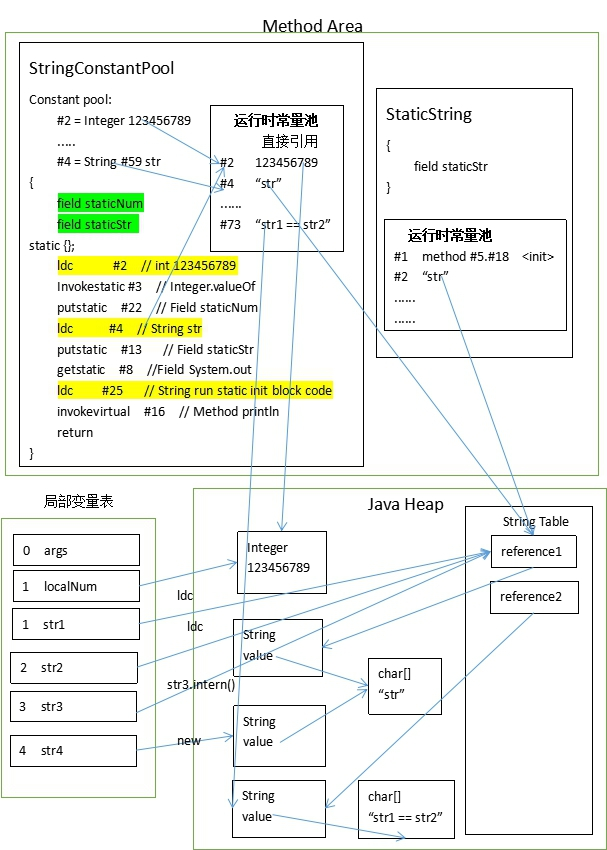
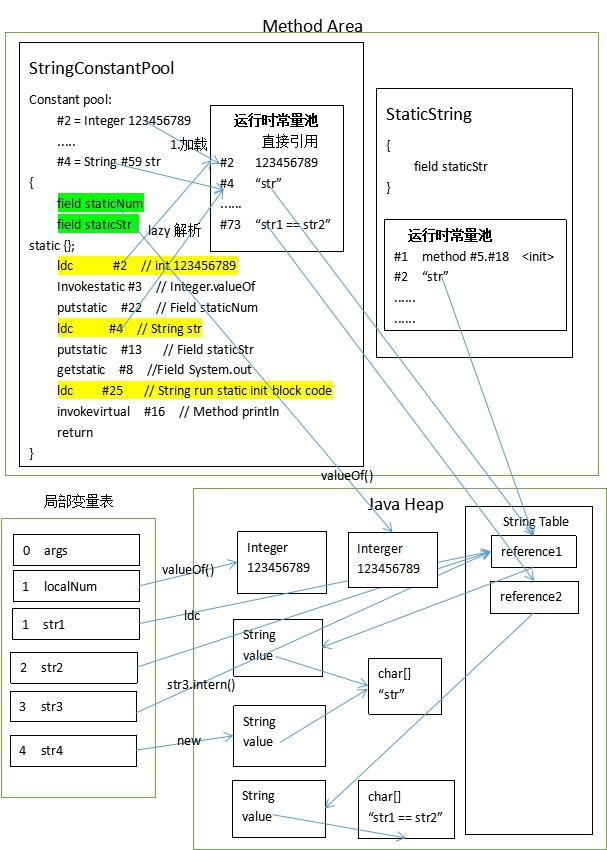
Site updated: 2019-09-26 20:32:31

diff --git a/2019/09/25/class文件常量池，运行时常量池，字符串常量池到底都是啥？/index.html b/2019/09/25/class文件常量池，运行时常量池，字符串常量池到底都是啥？/index.html
@@ -66,7 +66,7 @@
 <meta property="og:image" content="http://yangfubo.github.io/2019/09/25/class文件常量池，运行时常量池，字符串常量池到底都是啥？/class%E6%96%87%E4%BB%B6%E5%B8%B8%E9%87%8F%E6%B1%A01.png">
 <meta property="og:image" content="http://yangfubo.github.io/2019/09/25/class文件常量池，运行时常量池，字符串常量池到底都是啥？/class%E6%96%87%E4%BB%B6%E5%B8%B8%E9%87%8F%E6%B1%A02.png">
 <meta property="og:image" content="http://yangfubo.github.io/2019/09/25/class文件常量池，运行时常量池，字符串常量池到底都是啥？/3%E4%B8%AA%E5%B8%B8%E9%87%8F%E6%B1%A0%E7%9A%84%E5%85%B3%E7%B3%BB%E7%A4%BA%E6%84%8F%E5%9B%BE.jpg">
-<meta property="og:updated_time" content="2019-09-26T09:55:56.339Z">
+<meta property="og:updated_time" content="2019-09-26T11:54:24.639Z">
 <meta name="twitter:card" content="summary">
 <meta name="twitter:title" content="class文件常量池，运行时常量池，字符串常量池到底都是啥？">
 <meta name="twitter:description" content="傻傻分不清楚&amp;emsp;在看《深入理解Java虚拟机》的时候，在前面的内存结构章节中，方法区中有运行时常量池，在学class文件结构的时候，又发现有class文件常量池，然后呢，还有个全局的字符串常量池（String table）。在网上搜索他们的区别，也很少有能够讲的清楚的。当然，也并不是说我就讲的清楚了。我也只是把我自己的理解用文字记录下来。以便以后还是傻傻分不清。下面将会按照他们产生的顺序开">
@@ -312,7 +312,7 @@
                   <i class="fa fa-calendar-check-o"></i>
                 </span>
                 <span class="post-meta-item-text">更新于</span>
-                <time title="修改时间：2019-09-26 17:55:56" itemprop="dateModified" datetime="2019-09-26T17:55:56+08:00">2019-09-26</time>
+                <time title="修改时间：2019-09-26 19:54:24" itemprop="dateModified" datetime="2019-09-26T19:54:24+08:00">2019-09-26</time>
               </span>
             
           
@@ -347,8 +347,9 @@
 <p><img src="//yangfubo.github.io/2019/09/25/class文件常量池，运行时常量池，字符串常量池到底都是啥？/class%E6%96%87%E4%BB%B6%E5%B8%B8%E9%87%8F%E6%B1%A01.png" alt><br><img src="//yangfubo.github.io/2019/09/25/class文件常量池，运行时常量池，字符串常量池到底都是啥？/class%E6%96%87%E4%BB%B6%E5%B8%B8%E9%87%8F%E6%B1%A02.png" alt></p>
 <center>class文件常量池常量项结构.png</center>
 
-<p>&emsp;那么我们已经知道class文件常量池是存放字面量和符号引用的了。那么运行时常量池是什么呢？</p>
-<h3 id="运行时常量池（Runtime-Constant-Pool）"><a href="#运行时常量池（Runtime-Constant-Pool）" class="headerlink" title="运行时常量池（Runtime Constant Pool）"></a>运行时常量池（Runtime Constant Pool）</h3><p>&emsp;JVM在执行某个类的时候，会经过类的加载机制，将其加载，连接（验证、准备、解析），初始化。那么当类被加载到内存后，JVM就会将class文件常量池里的字面量和符号引用加载进运行时常量池，而且运行时常量池是一个类对应其自己的运行时常量池。在解析阶段可以将符号引用解析为直接引用（包括类或接口、字段、类方法、接口方法，invokeDynamic相关的符号引用），但存在Lazy的情况，虚拟机规范没有规定解析阶段发生的具体时间，只要求在执行<code>anewarray,multianewarray,checkcast,new,getfield,getstatic,putfield,putstatic,instanceof,invokedynamic,invokeinterface,invokespecial,invokestatic,invokevirtual,ldc.ldc_w</code>这16个用于操作符号引用的字节码指令之前，先对他们进行符号引用。从反解析出的字节码中可以看到，方法的调用比如invokevirtual后面会有符号引用在class文件常量池的索引。那么运行时就是拿这个符号引用的索引，去运行时常量池中获取解析后的直接引用。</p>
+
+
+<h3 id="运行时常量池（Runtime-Constant-Pool）"><a href="#运行时常量池（Runtime-Constant-Pool）" class="headerlink" title="运行时常量池（Runtime Constant Pool）"></a>运行时常量池（Runtime Constant Pool）</h3><p>&emsp;前面我们已经知道class文件常量池是存放字面量和符号引用的了。那么运行时常量池是什么呢？<br>&emsp;JVM在执行某个类的时候，会经过类的加载机制，将其加载，连接（验证、准备、解析），初始化。那么当类被加载到内存后，JVM就会将class文件常量池里的字面量和符号引用加载进运行时常量池，而且运行时常量池是一个类对应其自己的运行时常量池。在解析阶段可以将符号引用解析为直接引用（包括类或接口、字段、类方法、接口方法，invokeDynamic相关的符号引用），但存在Lazy的情况，虚拟机规范没有规定解析阶段发生的具体时间，只要求在执行<code>anewarray,multianewarray,checkcast,new,getfield,getstatic,putfield,putstatic,instanceof,invokedynamic,invokeinterface,invokespecial,invokestatic,invokevirtual,ldc.ldc_w</code>这16个用于操作符号引用的字节码指令之前，先对他们进行符号引用。从反解析出的字节码中可以看到，方法的调用比如invokevirtual后面会有符号引用在class文件常量池的索引。那么运行时就是拿这个符号引用的索引，去运行时常量池中获取解析后的直接引用。</p>
 <h3 id="字符串常量池（String-Table）"><a href="#字符串常量池（String-Table）" class="headerlink" title="字符串常量池（String Table）"></a>字符串常量池（String Table）</h3><p>&emsp;字符串常量池，在JDK1.7将其从永久代移动到了java堆。它是全局共享的，所以也叫全局字符串常量池。如下代码在JDK1.6和JDK1.7中的OOM区域不同。</p>
 <figure class="highlight java"><table><tr><td class="gutter"><pre><span class="line">1</span><br><span class="line">2</span><br><span class="line">3</span><br><span class="line">4</span><br><span class="line">5</span><br><span class="line">6</span><br><span class="line">7</span><br><span class="line">8</span><br><span class="line">9</span><br></pre></td><td class="code"><pre><span class="line"></span><br><span class="line"><span class="keyword">static</span> String str = <span class="string">"test"</span>;</span><br><span class="line"><span class="function"><span class="keyword">public</span> <span class="keyword">static</span> <span class="keyword">void</span> <span class="title">main</span><span class="params">(String[] args)</span></span>&#123;</span><br><span class="line">	List&lt;String&gt; list = <span class="keyword">new</span> LinkedList&lt;&gt;();</span><br><span class="line">	<span class="keyword">while</span>(<span class="keyword">true</span>)&#123;</span><br><span class="line">		str = str+str;</span><br><span class="line">		list.add(str.intern());</span><br><span class="line">	&#125;</span><br><span class="line">&#125;</span><br></pre></td></tr></table></figure>
 
@@ -356,12 +357,13 @@
 <li>JDK1.6中是OutOfMemoryError: PermGen space</li>
 <li>JDK1.7及以上是OutOfMemoryError: Java heap space</li>
 </ul>
-<p>&emsp;全局字符串常量池可以理解为一个HashSet<string>,<strong>里面存储的是String对象的引用</strong>,牢记是引用。真正的字符串其实是String类里的char[] value存储的字符数组。因为数组是引用类型，所以应该在java堆中存储着诸如”abc”=[‘a’,’b’,’c’]这样的数据。那么，是什么时候字符串字面量会加载进全局字符串常量池呢？下面我们就结合源代码、字节码、类加载、JVM内存结构，画个图来分析一波。源代码和字节码我完整地贴到笔记的最后面了。</string></p>
+<p>&emsp;全局字符串常量池可以理解为一个HashSet<string>,<strong>里面存储的是String对象的引用</strong>,牢记是引用。真正的字符串其实是String类里的char[] value存储的字符数组。因为数组是引用类型，所以应该在java堆中存储着诸如”abc”=[‘a’,’b’,’c’]这样的数据。那么，是什么时候字符串字面量会加载进全局字符串常量池呢？下面我们就结合源代码、字节码、类加载、JVM内存结构，画个图来分析一波。源代码和字节码由于太多，我就完整地贴到笔记的最后面了。</string></p>
 <p><img src="//yangfubo.github.io/2019/09/25/class文件常量池，运行时常量池，字符串常量池到底都是啥？/3%E4%B8%AA%E5%B8%B8%E9%87%8F%E6%B1%A0%E7%9A%84%E5%85%B3%E7%B3%BB%E7%A4%BA%E6%84%8F%E5%9B%BE.jpg" alt></p>
 <center>3个常量池的关系图</center>
 
-<p>&emsp;以上是我理解的3者的关系，首先经过类加载，在初始化阶段会调用类的初始化器<clinit>对应于字节码中的static{}代码块(它会将静态属性或静态代码块在源码中的先后顺序进行组合到一个方法内)。<br>&emsp;静态初始化方法内有ldc字节码指令（load constant?），这个指令的作用是：根据class文件常量池中的索引号（如下方的#2），去运行时常量池中寻找对应的常量，如果没有解析，则解析，将直接引用存入运行时常量池（以后就不用解析了），返回引用压入操作数栈到栈顶。如果是字符串，则会去全局字符串常量池中查找是否存在（类似equals）,存在则直接返回全局字符串常量池中的引用，不存在则在堆中创建一个String对象，把引用存入全局字符串常量池并返回其引用压入栈顶。<br>其实class常量池中的常量加载到运行时常量池中，对它的解析resolve是lazy的。只有遇到ldc指令的时候才会去判断是否解析，没解析则解析。因为类加载最后是初始化，类静态属性的初始化赋值就会执行ldc指令，所以类加载完staticNum就已经解析了。但是如果是main方法中“str1 == str2”这样的字面量，只有在第一次运行到ldc命令的时候去真正解析。</clinit></p>
-<figure class="highlight java"><table><tr><td class="gutter"><pre><span class="line">1</span><br><span class="line">2</span><br><span class="line">3</span><br><span class="line">4</span><br><span class="line">5</span><br><span class="line">6</span><br><span class="line">7</span><br><span class="line">8</span><br><span class="line">9</span><br><span class="line">10</span><br><span class="line">11</span><br><span class="line">12</span><br><span class="line">13</span><br><span class="line">14</span><br><span class="line">15</span><br><span class="line">16</span><br><span class="line">17</span><br><span class="line">18</span><br><span class="line">19</span><br><span class="line">20</span><br><span class="line">21</span><br><span class="line">22</span><br><span class="line">23</span><br><span class="line">24</span><br><span class="line">25</span><br></pre></td><td class="code"><pre><span class="line"></span><br><span class="line">... ...</span><br><span class="line"></span><br><span class="line">Constant pool:</span><br><span class="line">   #1 = Methodref          #27.#57       // java/lang/Object."&lt;init&gt;":()V 对象默认无参初始化构造器</span><br><span class="line">      #2 = Integer            123456789     // 整形字面量</span><br><span class="line">      #3 = Methodref          #58.#59       // java/lang/Integer.valueOf:(I)Ljava/lang/Integer;  方法引用</span><br><span class="line">      #4 = String             #60           // str  字符串字面量</span><br><span class="line">... ...</span><br><span class="line"></span><br><span class="line"><span class="keyword">static</span> &#123;&#125;; <span class="comment">//类初始化构造器&lt;clinit&gt;</span></span><br><span class="line">    descriptor: ()V</span><br><span class="line">    flags: ACC_STATIC</span><br><span class="line">    Code:</span><br><span class="line">      stack=<span class="number">2</span>, locals=<span class="number">0</span>, args_size=<span class="number">0</span></span><br><span class="line">         0: ldc           #2                  // int 123456789  从运行时常量池中获取直接引用并压入栈顶</span><br><span class="line">         2: invokestatic  #3                  // Method java/lang/Integer.valueOf:(I)Ljava/lang/Integer; </span><br><span class="line">         5: putstatic     #22                 // Field staticNum:Ljava/lang/Integer;</span><br><span class="line">         8: ldc           #4                  // String str  从运行时常量池中获取直接引用并压入栈顶，</span><br><span class="line">											  <span class="comment">// 获取过程中如果没解析过，会去全局字符串常量池中查找是否已驻留，无则在堆中新建String对象，其引用存入全局字符串常量池，并返回其引用</span></span><br><span class="line">        10: putstatic     #13                 // Field staticStr:Ljava/lang/String;  给staticStr静态属性赋值</span><br><span class="line">        13: getstatic     #8                  // Field java/lang/System.out:Ljava/io/PrintStream;</span><br><span class="line">        16: ldc           #25                 // String run static init block code\n</span><br><span class="line">        18: invokevirtual #16                 // Method java/io/PrintStream.println:(Ljava/lang/String;)V</span><br><span class="line">        <span class="number">21</span>: <span class="keyword">return</span></span><br></pre></td></tr></table></figure>
+<p>&emsp;以上是我理解的3者的关系，首先经过类加载，在初始化阶段会调用类的初始化器<clinit>对应于字节码中的static{}代码块(它会将静态属性或静态代码块在源码中的先后顺序进行组合到一个方法内)。<br>&emsp;静态初始化方法内有ldc字节码指令（load constant?），这个指令的作用是：根据class文件常量池中的索引号（如下方的#2），去运行时常量池中寻找对应的常量，如果没有解析，则解析，将直接引用存入运行时常量池（以后就不用解析了），如果是整形则是把int值压入操作数栈供后面的Interge.valueOf(int)调用。如果是字符串，则会去全局字符串常量池中查找是否存在（类似equals）,存在则直接返回全局字符串常量池中的引用，不存在则在堆中创建一个String对象，把引用存入全局字符串常量池并返回其引用压入栈顶。</clinit></p>
+<p>&emsp;class常量池中的常量加载到运行时常量池中，对它的解析resolve是lazy的。只有遇到ldc指令的时候才会去判断是否解析，没解析则解析。示例代码因为类加载最后是初始化，类静态属性的初始化赋值就会执行ldc指令，所以类加载完staticStr就已经解析了。但是如果是main方法中“str1 == str2”这样的字面量，只有在第一次运行到ldc命令的时候去真正解析。</p>
+<figure class="highlight java"><table><tr><td class="gutter"><pre><span class="line">1</span><br><span class="line">2</span><br><span class="line">3</span><br><span class="line">4</span><br><span class="line">5</span><br><span class="line">6</span><br><span class="line">7</span><br><span class="line">8</span><br><span class="line">9</span><br><span class="line">10</span><br><span class="line">11</span><br><span class="line">12</span><br><span class="line">13</span><br><span class="line">14</span><br><span class="line">15</span><br><span class="line">16</span><br><span class="line">17</span><br><span class="line">18</span><br><span class="line">19</span><br><span class="line">20</span><br><span class="line">21</span><br><span class="line">22</span><br><span class="line">23</span><br><span class="line">24</span><br></pre></td><td class="code"><pre><span class="line"></span><br><span class="line">... ...</span><br><span class="line"></span><br><span class="line">Constant pool:</span><br><span class="line">   #1 = Methodref          #27.#57       // java/lang/Object."&lt;init&gt;":()V 对象默认无参初始化构造器</span><br><span class="line">      #2 = Integer            123456789     // 整形字面量</span><br><span class="line">      #3 = Methodref          #58.#59       // java/lang/Integer.valueOf:(I)Ljava/lang/Integer;  方法引用</span><br><span class="line">      #4 = String             #60           // str  字符串字面量</span><br><span class="line">... ...</span><br><span class="line"></span><br><span class="line"><span class="keyword">static</span> &#123;&#125;; <span class="comment">//类初始化构造器&lt;clinit&gt;</span></span><br><span class="line">    descriptor: ()V</span><br><span class="line">    flags: ACC_STATIC</span><br><span class="line">    Code:</span><br><span class="line">      stack=<span class="number">2</span>, locals=<span class="number">0</span>, args_size=<span class="number">0</span></span><br><span class="line">         0: ldc           #2                  // int 123456789  从运行时常量池中获取int值并压入栈顶</span><br><span class="line">         2: invokestatic  #3                  // Method java/lang/Integer.valueOf:(I)Ljava/lang/Integer; </span><br><span class="line">         5: putstatic     #22                 // Field staticNum:Ljava/lang/Integer;</span><br><span class="line">         8: ldc           #4                  // String str  从运行时常量池中获取直接引用并压入栈顶,获取过程中如果没解析过，会去全局字符串常量池中查找是否已驻留，无则在堆中新建String对象，其引用存入全局字符串常量池，并返回其引用</span><br><span class="line">        10: putstatic     #13                 // Field staticStr:Ljava/lang/String;  给staticStr静态属性赋值</span><br><span class="line">        13: getstatic     #8                  // Field java/lang/System.out:Ljava/io/PrintStream;</span><br><span class="line">        16: ldc           #25                 // String run static init block code\n</span><br><span class="line">        18: invokevirtual #16                 // Method java/io/PrintStream.println:(Ljava/lang/String;)V</span><br><span class="line">        <span class="number">21</span>: <span class="keyword">return</span></span><br></pre></td></tr></table></figure>
 
 <p>&emsp;重新整理下”str”这个字面量从class文件到main方法运行时的过程，类加载的加载阶段“str”从class文件常量池加载进运行时常量池，并在类初始化阶段(最先打印”run static init block code”)执行生成的初始化方法中第一次执行ldc命令，ldc命令检查到该字面量未解析，去全局字符串常量池中查找，也无对应引用，所以在堆中创建String对象，将其引用存入全局字符串常量池，返回这个引用，ldc命令将之加载到操作数栈顶，后面的putstatic将这个引用赋值给类静态属性staticStr；<br>然后main方法里，另一个StaticString.str也是类初始化阶段执行ldc命令，运行时常量池中没解析，不过它在全局字符串常量池中发现有引用（StringConstantPool生成的），直接返回该引用，所以他们两个==为true;str1这个局部变量也使用ldc指令去本类运行时常量池中将字符串载入栈顶，发现已解析，返回直接引用压入栈顶；str2同理；str3调用构造器，查看源码发现，其实是将String对象的value属性赋值给新String对象；str4调用str3.intern(),该方法去全局字符串常量池中查找是否有等于str3（equals）的引用，发现有（前面类属性staticStr通过ldc产生的），返回全局字符串常量池中的引用。</p>
 <p>&emsp;讲到这里，你已经基本掌握了class文件常量池、运行时常量池、全局字符串常量池中字符串的关系。但是其实还有JIT及时编译器优化（逃逸分析，栈上分配，标量替换，方法内联等）。不想再陷入过多的细节了，有兴趣的详细参考R大的文章<a href="https://www.iteye.com/blog/rednaxelafx-774673" target="_blank" rel="noopener">https://www.iteye.com/blog/rednaxelafx-774673</a></p>

diff --git a/2019/09/25/MySQL基础架构之一条select语句是如何执行的/index.html b/2019/09/25/MySQL基础架构之一条select语句是如何执行的/index.html
@@ -55,18 +55,20 @@
   };
 </script>
 
-  <meta name="description" content="&amp;emsp;作为程序员，除了要精通一门高级编程语言外，还必须熟悉数据库（MySQL/Oracle等）。平常我们只要会写SQL,懂点索引能加速查询，知道执行一条select语句，会根据where条件筛选出我们想要的数据，也就是输入一条语句，得到输出结果。对MySQL的原理一知半解，那么在发生问题的时候，就可能不知道问题出在哪。要想往高级工程师进阶，就得去理解MySQL的内部原理，底层细节。但是我不想">
+  <meta name="description" content="&amp;emsp;作为程序员，除了要精通一门高级编程语言外，还必须熟悉数据库（MySQL/Oracle等）。平常我们只要会写SQL,懂点索引能加速查询,对于初级开发也就够了。但是如果只会输入一条语句，得到输出结果。对MySQL的原理一知半解，那么在发生问题的时候，就不知道问题出在哪。要想往高级工程师进阶，就得去理解MySQL的内部原理，底层细节。但是我不想这么早就扎入MySQL的源码中。对于我这个初入茅">
 <meta name="keywords" content="MySQL基础架构 select语句">
 <meta property="og:type" content="article">
 <meta property="og:title" content="MySQL基础架构之一条select语句是如何执行的">
 <meta property="og:url" content="http://yangfubo.github.io/2019/09/25/MySQL基础架构之一条select语句是如何执行的/index.html">
 <meta property="og:site_name" content="Bob&#39;s Blogs">
-<meta property="og:description" content="&amp;emsp;作为程序员，除了要精通一门高级编程语言外，还必须熟悉数据库（MySQL/Oracle等）。平常我们只要会写SQL,懂点索引能加速查询，知道执行一条select语句，会根据where条件筛选出我们想要的数据，也就是输入一条语句，得到输出结果。对MySQL的原理一知半解，那么在发生问题的时候，就可能不知道问题出在哪。要想往高级工程师进阶，就得去理解MySQL的内部原理，底层细节。但是我不想">
+<meta property="og:description" content="&amp;emsp;作为程序员，除了要精通一门高级编程语言外，还必须熟悉数据库（MySQL/Oracle等）。平常我们只要会写SQL,懂点索引能加速查询,对于初级开发也就够了。但是如果只会输入一条语句，得到输出结果。对MySQL的原理一知半解，那么在发生问题的时候，就不知道问题出在哪。要想往高级工程师进阶，就得去理解MySQL的内部原理，底层细节。但是我不想这么早就扎入MySQL的源码中。对于我这个初入茅">
 <meta property="og:locale" content="zh-CN">
-<meta property="og:updated_time" content="2019-09-26T06:04:17.077Z">
+<meta property="og:image" content="http://yangfubo.github.io/2019/09/25/MySQL基础架构之一条select语句是如何执行的/MySQL%E5%9F%BA%E7%A1%80%E6%9E%B6%E6%9E%84%E5%9B%BE.jpg">
+<meta property="og:updated_time" content="2019-09-26T12:31:09.862Z">
 <meta name="twitter:card" content="summary">
 <meta name="twitter:title" content="MySQL基础架构之一条select语句是如何执行的">
-<meta name="twitter:description" content="&amp;emsp;作为程序员，除了要精通一门高级编程语言外，还必须熟悉数据库（MySQL/Oracle等）。平常我们只要会写SQL,懂点索引能加速查询，知道执行一条select语句，会根据where条件筛选出我们想要的数据，也就是输入一条语句，得到输出结果。对MySQL的原理一知半解，那么在发生问题的时候，就可能不知道问题出在哪。要想往高级工程师进阶，就得去理解MySQL的内部原理，底层细节。但是我不想">
+<meta name="twitter:description" content="&amp;emsp;作为程序员，除了要精通一门高级编程语言外，还必须熟悉数据库（MySQL/Oracle等）。平常我们只要会写SQL,懂点索引能加速查询,对于初级开发也就够了。但是如果只会输入一条语句，得到输出结果。对MySQL的原理一知半解，那么在发生问题的时候，就不知道问题出在哪。要想往高级工程师进阶，就得去理解MySQL的内部原理，底层细节。但是我不想这么早就扎入MySQL的源码中。对于我这个初入茅">
+<meta name="twitter:image" content="http://yangfubo.github.io/2019/09/25/MySQL基础架构之一条select语句是如何执行的/MySQL%E5%9F%BA%E7%A1%80%E6%9E%B6%E6%9E%84%E5%9B%BE.jpg">
   <link rel="canonical" href="http://yangfubo.github.io/2019/09/25/MySQL基础架构之一条select语句是如何执行的/">
 
 
@@ -308,7 +310,7 @@
                   <i class="fa fa-calendar-check-o"></i>
                 </span>
                 <span class="post-meta-item-text">更新于</span>
-                <time title="修改时间：2019-09-26 14:04:17" itemprop="dateModified" datetime="2019-09-26T14:04:17+08:00">2019-09-26</time>
+                <time title="修改时间：2019-09-26 20:31:09" itemprop="dateModified" datetime="2019-09-26T20:31:09+08:00">2019-09-26</time>
               </span>
             
           
@@ -337,12 +339,29 @@
     <div class="post-body" itemprop="articleBody">
 
       
-        <p>&emsp;作为程序员，除了要精通一门高级编程语言外，还必须熟悉数据库（MySQL/Oracle等）。平常我们只要会写SQL,懂点索引能加速查询，知道执行一条select语句，会根据where条件筛选出我们想要的数据，也就是输入一条语句，得到输出结果。对MySQL的原理一知半解，那么在发生问题的时候<br>，就可能不知道问题出在哪。要想往高级工程师进阶，就得去理解MySQL的内部原理，底层细节。但是我不想这么早就扎入MySQL的源码中。对于我这个初入茅庐的菜鸟程序员，还是在以后的开发中，根据实际问题再去深入研究。这篇笔记主要记录我对MySQL的基础架构的理解，好吧，下面开始。</p><a id="more"></a>
-<p>@TODO 补上图片</p>
-<p>&emsp;直接贴上MySQL的组件图，那么我们就来讲讲这个图。首先，客户端就是我们程序员主要工作的地方，你写的Java代码就会调用MySQL提供的Java客户端API。一般客户端开发框架会封装一个连接池，管理复用MySQL的连接。而MySQL可大致分为Server层和存储引擎层两部分。<br>假设我们执行这样一条SQL,select * from t where id = 1;来分析分析它的执行过程，以及各个组件都有什么作用。<br>1.连接器，负责连接管理，每个客户端连接在服务端都会对应与一个线程，连接器同样也是线程池，客户端连接用完了，不会关闭线程，而是等待处理下一个连接；权限验证，将其权限信息读入内存，验证账户和密码的正确性，下面的组件还会用到这部分权限信息。<br>顺带一提缓存，根据SQL语句查询是否有缓存，有则直接返回数据。这样看似可以加速查询，但对于读写频繁的业务，你对表上任一行做了更新操作，都会使得缓存失效，假如一条读完下条写，缓存失效，下次又读，又进缓存，这样根本没有提高效率。所以根据业务需求，判断是否需要开启缓存吧，通常建议不使用。<br>2.分析器，进行词法分析，语法分析得到语法树，验证语法是否正确，比如根据语法树判断关键字是否正确。<br>3.预处理器，此部分根据语法树中解析出的表、列信息，结合前面的权限信息判断用户是否对该表或列具有读/写权限等；<br>4.优化器，这无疑是很重要的一部分，该部分主要负责优化SQL语句，包括重写查询、决定表的读取顺序，选择合适的索引（估计哪个索引执行快）等，据此生成最优的执行计划。对于上面那条SQL语句，会选择id主键索引。<br>5.执行器，根据执行计划给出的指令，调用存储引擎的API,进行计算等。那么这个例子就是调用查询id=1的存储引擎接口。<br>6.存储引擎，提供API,存储数据，比如查询某个索引第一行的接口，查询某个索引条目（数据行）下一个条目的接口。这个例子就是遍历id主键索引树，返回给执行器id=1这一行。<br>7.返回结果集，执行器查出数据后，数据由连接器中的当前线程传送回数据，并不是所有数据都查出来了一次性返回给客户端，而是查出数据就可以往连接里传送数据了。</p>
-<p>参考资料：</p>
-<p>1.《高性能MySQL 第三版》章节1.1、6.4</p>
-<p>2.极客时间《MySQL实战45讲》–丁奇大佬，第一章《基础架构：一条SQL查询语句是如何执行的？》</p>
+        <p>&emsp;作为程序员，除了要精通一门高级编程语言外，还必须熟悉数据库（MySQL/Oracle等）。平常我们只要会写SQL,懂点索引能加速查询,对于初级开发也就够了。但是如果只会输入一条语句，得到输出结果。对MySQL的原理一知半解，那么在发生问题的时候<br>，就不知道问题出在哪。要想往高级工程师进阶，就得去理解MySQL的内部原理，底层细节。但是我不想这么早就扎入MySQL的源码中。对于我这个初入茅庐的菜鸟程序员，还是在以后的开发中，根据实际问题再去深入研究。这篇笔记主要记录我对MySQL的基础架构的理解，好吧，下面开始。</p><a id="more"></a>
+<p><img src="//yangfubo.github.io/2019/09/25/MySQL基础架构之一条select语句是如何执行的/MySQL%E5%9F%BA%E7%A1%80%E6%9E%B6%E6%9E%84%E5%9B%BE.jpg" alt></p>
+<p>&emsp;直接贴上MySQL的组件图，那么我们就来讲讲这个图。</p>
+<h3 id="客户端"><a href="#客户端" class="headerlink" title="客户端"></a>客户端</h3><p>首先，客户端就是我们程序员主要工作的地方，你写的Java代码就会调用MySQL提供的Java客户端API。一般客户端开发框架会封装一个连接池，管理复用MySQL的连接。而MySQL可大致分为Server层和存储引擎层两部分。<br>假设我们执行这样一条SQL,<code>select * from t where id = 1;</code>来分析分析它的执行过程，以及各个组件都有什么作用。</p>
+<h3 id="1-连接器"><a href="#1-连接器" class="headerlink" title="1.连接器"></a>1.连接器</h3><ul>
+<li>连接管理，每个客户端连接在服务端都会对应与一个线程，连接器同样也是线程池，客户端连接断开了，不会关闭线程，而是等待处理下一个连接；</li>
+<li>权限验证，将其权限信息读入内存，验证账户和密码的正确性，下面的组件还会用到这部分权限信息。</li>
+</ul>
+<p>&emsp;顺带一提查询缓存，根据SQL语句查询是否有缓存，有则直接返回数据。这样看似可以加速查询，但对于读写频繁的业务，你对表上任一行做了更新操作，都会使得该表的缓存失效，假如一条读完下条写，缓存失效，下次又读，又进缓存，这样根本没有提高效率。所以根据业务需求，判断是否需要开启缓存吧，通常建议不使用。</p>
+<h3 id="2-分析器"><a href="#2-分析器" class="headerlink" title="2.分析器"></a>2.分析器</h3><ul>
+<li>进行词法分析，语法分析得到语法树，验证语法是否正确，比如根据语法树判断关键字是否正确。<h3 id="3-预处理器"><a href="#3-预处理器" class="headerlink" title="3.预处理器"></a>3.预处理器</h3></li>
+<li>此部分根据语法树中解析出的表、列信息，结合前面的权限信息判断用户是否对该表或列具有读/写权限等；<h3 id="4-优化器"><a href="#4-优化器" class="headerlink" title="4.优化器"></a>4.优化器</h3></li>
+<li>主要负责优化SQL语句，包括重写查询、决定表的读取顺序，选择合适的索引（估计哪个索引执行快）等，据此生成最优的执行计划。对于上面那条SQL语句，会选择id主键索引。<h3 id="5-执行器"><a href="#5-执行器" class="headerlink" title="5.执行器"></a>5.执行器</h3></li>
+<li>根据执行计划给出的指令，调用存储引擎的API,进行计算等。那么这个例子就是调用查询id=1的存储引擎接口。<h3 id="6-存储引擎"><a href="#6-存储引擎" class="headerlink" title="6.存储引擎"></a>6.存储引擎</h3></li>
+<li>提供API,比如查询某个索引第一行的接口，查询某个索引条目（数据行）下一个条目的接口。这个例子就是遍历id主键索引树，返回给执行器id=1这一行。</li>
+<li>存储数据，在内存中提供Buffer Pool,读写磁盘</li>
+</ul>
+<p>&emsp;返回结果集，执行器查出数据后，数据由连接器中的当前线程传送回数据，并不是所有数据都查出来了一次性返回给客户端，而是查出数据就可以往连接里传送数据了。</p>
+<p>参考资料：  </p>
+<ol>
+<li>《高性能MySQL 第三版》章节1.1、6.4  </li>
+<li>极客时间《MySQL实战45讲》–丁奇大佬，第一章《基础架构：一条SQL查询语句是如何执行的？》</li>
+</ol>
 
     </div>
 
@@ -425,6 +444,8 @@
 
       <!--noindex-->
       <div class="post-toc-wrap sidebar-panel">
+          <div class="post-toc motion-element"><ol class="nav"><li class="nav-item nav-level-3"><a class="nav-link" href="#客户端"><span class="nav-number">1.</span> <span class="nav-text">客户端</span></a></li><li class="nav-item nav-level-3"><a class="nav-link" href="#1-连接器"><span class="nav-number">2.</span> <span class="nav-text">1.连接器</span></a></li><li class="nav-item nav-level-3"><a class="nav-link" href="#2-分析器"><span class="nav-number">3.</span> <span class="nav-text">2.分析器</span></a></li><li class="nav-item nav-level-3"><a class="nav-link" href="#3-预处理器"><span class="nav-number">4.</span> <span class="nav-text">3.预处理器</span></a></li><li class="nav-item nav-level-3"><a class="nav-link" href="#4-优化器"><span class="nav-number">5.</span> <span class="nav-text">4.优化器</span></a></li><li class="nav-item nav-level-3"><a class="nav-link" href="#5-执行器"><span class="nav-number">6.</span> <span class="nav-text">5.执行器</span></a></li><li class="nav-item nav-level-3"><a class="nav-link" href="#6-存储引擎"><span class="nav-number">7.</span> <span class="nav-text">6.存储引擎</span></a></li></ol></div>
+        
       </div>
       <!--/noindex-->
 

diff --git a/index.html b/index.html
@@ -306,7 +306,7 @@
                   <i class="fa fa-calendar-check-o"></i>
                 </span>
                 <span class="post-meta-item-text">更新于</span>
-                <time title="修改时间：2019-09-26 14:04:17" itemprop="dateModified" datetime="2019-09-26T14:04:17+08:00">2019-09-26</time>
+                <time title="修改时间：2019-09-26 20:31:09" itemprop="dateModified" datetime="2019-09-26T20:31:09+08:00">2019-09-26</time>
               </span>
             
           
@@ -335,7 +335,7 @@
     <div class="post-body" itemprop="articleBody">
 
       
-          <p>&emsp;作为程序员，除了要精通一门高级编程语言外，还必须熟悉数据库（MySQL/Oracle等）。平常我们只要会写SQL,懂点索引能加速查询，知道执行一条select语句，会根据where条件筛选出我们想要的数据，也就是输入一条语句，得到输出结果。对MySQL的原理一知半解，那么在发生问题的时候<br>，就可能不知道问题出在哪。要想往高级工程师进阶，就得去理解MySQL的内部原理，底层细节。但是我不想这么早就扎入MySQL的源码中。对于我这个初入茅庐的菜鸟程序员，还是在以后的开发中，根据实际问题再去深入研究。这篇笔记主要记录我对MySQL的基础架构的理解，好吧，下面开始。</p>
+          <p>&emsp;作为程序员，除了要精通一门高级编程语言外，还必须熟悉数据库（MySQL/Oracle等）。平常我们只要会写SQL,懂点索引能加速查询,对于初级开发也就够了。但是如果只会输入一条语句，得到输出结果。对MySQL的原理一知半解，那么在发生问题的时候<br>，就不知道问题出在哪。要想往高级工程师进阶，就得去理解MySQL的内部原理，底层细节。但是我不想这么早就扎入MySQL的源码中。对于我这个初入茅庐的菜鸟程序员，还是在以后的开发中，根据实际问题再去深入研究。这篇笔记主要记录我对MySQL的基础架构的理解，好吧，下面开始。</p>
           <!--noindex-->
           
             <div class="post-button text-center">
@@ -408,7 +408,7 @@
                   <i class="fa fa-calendar-check-o"></i>
                 </span>
                 <span class="post-meta-item-text">更新于</span>
-                <time title="修改时间：2019-09-26 17:55:56" itemprop="dateModified" datetime="2019-09-26T17:55:56+08:00">2019-09-26</time>
+                <time title="修改时间：2019-09-26 19:54:24" itemprop="dateModified" datetime="2019-09-26T19:54:24+08:00">2019-09-26</time>
               </span>
             
           

diff --git a/css/main.css b/css/main.css
@@ -1674,7 +1674,7 @@ article:last-child .post-eof {
 }
 .links-of-author a::before,
 .links-of-author span.exturl::before {
-  background: #16b41c;
+  background: #22ffe9;
   border-radius: 50%;
   content: ' ';
   display: inline-block;
